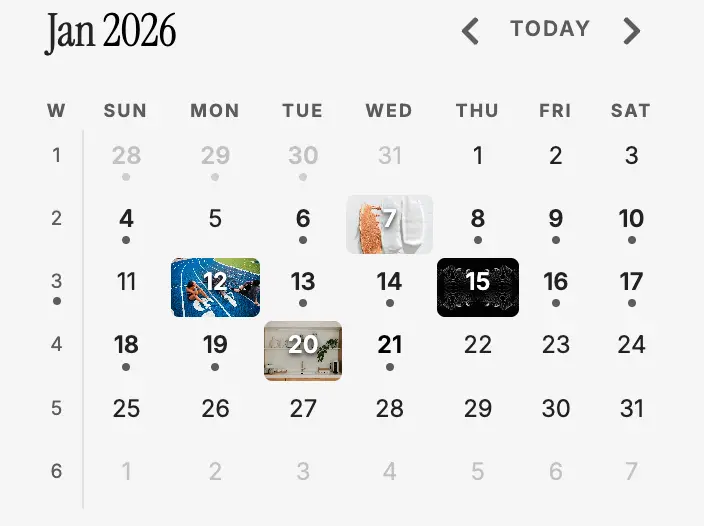
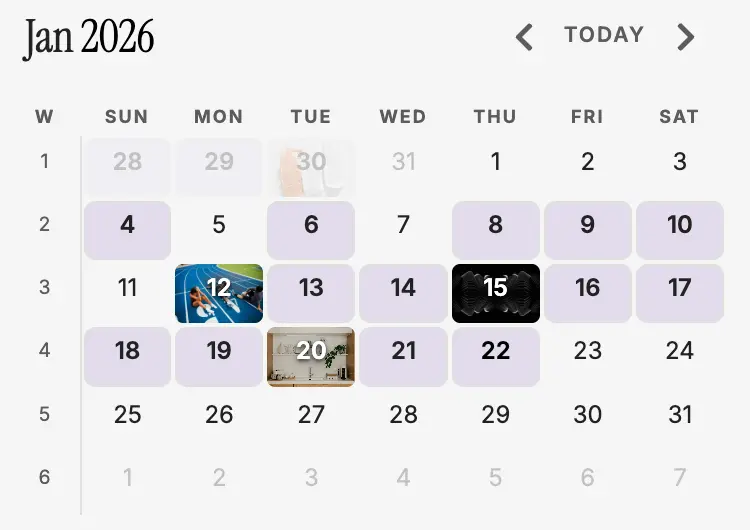
docs: update readmes, screenshots, and license

diff --git a/README.zh.md b/README.zh.md
@@ -4,6 +4,18 @@
 
 一个为 Obsidian 设计的日历插件，可以将日记中的照片显示为日历背景。
 
+## 功能特性
+
+- **照片模式**：将日记 frontmatter 中的照片显示为日历单元格背景
+- **照片模式笔记底色**：对有笔记但没有照片的日期设置自定义背景色
+- **跨月日期照片**：当前月之外的日期格也会显示照片
+- **月份选择器**：点击日历标题即可跳转到任意月份和年份
+- **照片填充模式**：支持 Cover（裁切）或 Contain（适配）显示照片
+- **字数指示器**：标准模式下通过圆点数量直观显示笔记长度（可自定义每个圆点代表的字数）
+- **周日记支持**：点击周数字创建或打开周日记
+- **日记集成**：点击日期打开或创建日记
+- **可配置**：自定义周起始日、照片来源字段和显示偏好
+
 ## 效果截图
 
 **插件视图**
@@ -12,17 +24,11 @@
 **完整视图（含日记）**
 ![完整视图](./screenshots/full-view.webp)
 
-## 功能特性
+**月份选择器**
+![月份选择器](./screenshots/day-picker.webp)
 
-- **照片模式**：将日记 frontmatter 中的照片显示为日历单元格背景
-- **字数指示器**：通过圆点数量直观显示笔记长度（可自定义每个圆点代表的字数）
-- **周日记支持**：点击周数字创建或打开周日记
-- **双显示模式**：
-  - 照片模式：显示照片并添加文字阴影以确保可读性
-  - 标准模式：传统日历视图，显示字数圆点
-- **智能显示**：启用照片模式时，有照片则显示照片，无照片则显示圆点
-- **日记集成**：点击日期打开或创建日记
-- **可配置**：自定义周起始日、照片来源字段和显示偏好
+**设置面板**
+![设置面板](./screenshots/setting.webp)
 
 ## 安装
 
@@ -61,9 +67,12 @@ image: "[[photo.jpg]]"
 ## 设置选项
 
 - **显示照片**：切换照片显示模式
-- **周起始日**：选择区域默认��周日或周一
+- **照片模式笔记底色**：设置无照片笔记的背景色（照片模式）
+- **重置照片模式底色**：恢复默认背景色
+- **照片填充模式**：Cover（裁切）或 Contain（适配）
+- **周起始日**：选择区域默认、周日或周一
 - **显示周数字**：显示周数字以便导航到周日记
-- **照片 Frontmatter 字段**：自定义要检查的图片字��
+- **照片 Frontmatter 字段**：自定义要检查的图片字段
 - **每个圆点的字数**：配置每个圆点代表的字数
 - **创建前确认**：创建新笔记前显示确认对话框
 

diff --git a/README.md b/README.md
@@ -4,6 +4,18 @@
 
 A calendar plugin for Obsidian that displays photos from your daily notes as calendar backgrounds.
 
+## Features
+
+- **Photo Mode**: Display photos from daily note frontmatter as calendar cell backgrounds
+- **Photo Mode Note Background**: Custom background color for dates with notes but no photos
+- **Adjacent-Month Photos**: Show photos even for days outside the current month grid
+- **Month Picker**: Click the calendar title to jump to any month and year
+- **Photo Fill Mode**: Choose cover (crop) or contain (fit) for calendar photos
+- **Word Count Dots**: Visual indicators showing note length (customizable words per dot) in standard mode
+- **Weekly Notes**: Click week numbers to create or open weekly notes
+- **Daily Notes Integration**: Click dates to open or create daily notes
+- **Configurable**: Customize week start, photo sources, and display preferences
+
 ## Screenshots
 
 **Plugin View**
@@ -12,17 +24,11 @@ A calendar plugin for Obsidian that displays photos from your daily notes as cal
 **Full View with Daily Note**
 ![Full View](./screenshots/full-view.webp)
 
-## Features
+**Month Picker**
+![Month Picker](./screenshots/day-picker.webp)
 
-- **Photo Mode**: Display photos from daily note frontmatter as calendar cell backgrounds
-- **Word Count Dots**: Visual indicators showing note length (customizable words per dot)
-- **Weekly Notes**: Click week numbers to create or open weekly notes
-- **Dual Display Modes**:
-  - Photo mode: Shows photos with text shadow for readability
-  - Standard mode: Traditional calendar with word count dots
-- **Smart Display**: When photo mode is enabled, shows photos if available, otherwise falls back to dots
-- **Daily Notes Integration**: Click dates to open or create daily notes
-- **Configurable**: Customize week start, photo sources, and display preferences
+**Settings**
+![Settings](./screenshots/setting.webp)
 
 ## Installation
 
@@ -61,6 +67,9 @@ The plugin supports wikilinks, URLs, and relative paths. Configure which frontma
 ## Settings
 
 - **Show Photos**: Toggle photo display mode
+- **Photo Mode Note Background**: Background color for notes without photos (photo mode)
+- **Reset Photo Mode Note Background**: Restore the default background color
+- **Photo Fill Mode**: Cover (crop) or Contain (fit) photo display
 - **Week Start**: Choose locale default, Sunday, or Monday
 - **Show Week Numbers**: Display week numbers for weekly note navigation
 - **Photo Frontmatter Fields**: Customize which fields to check for images
